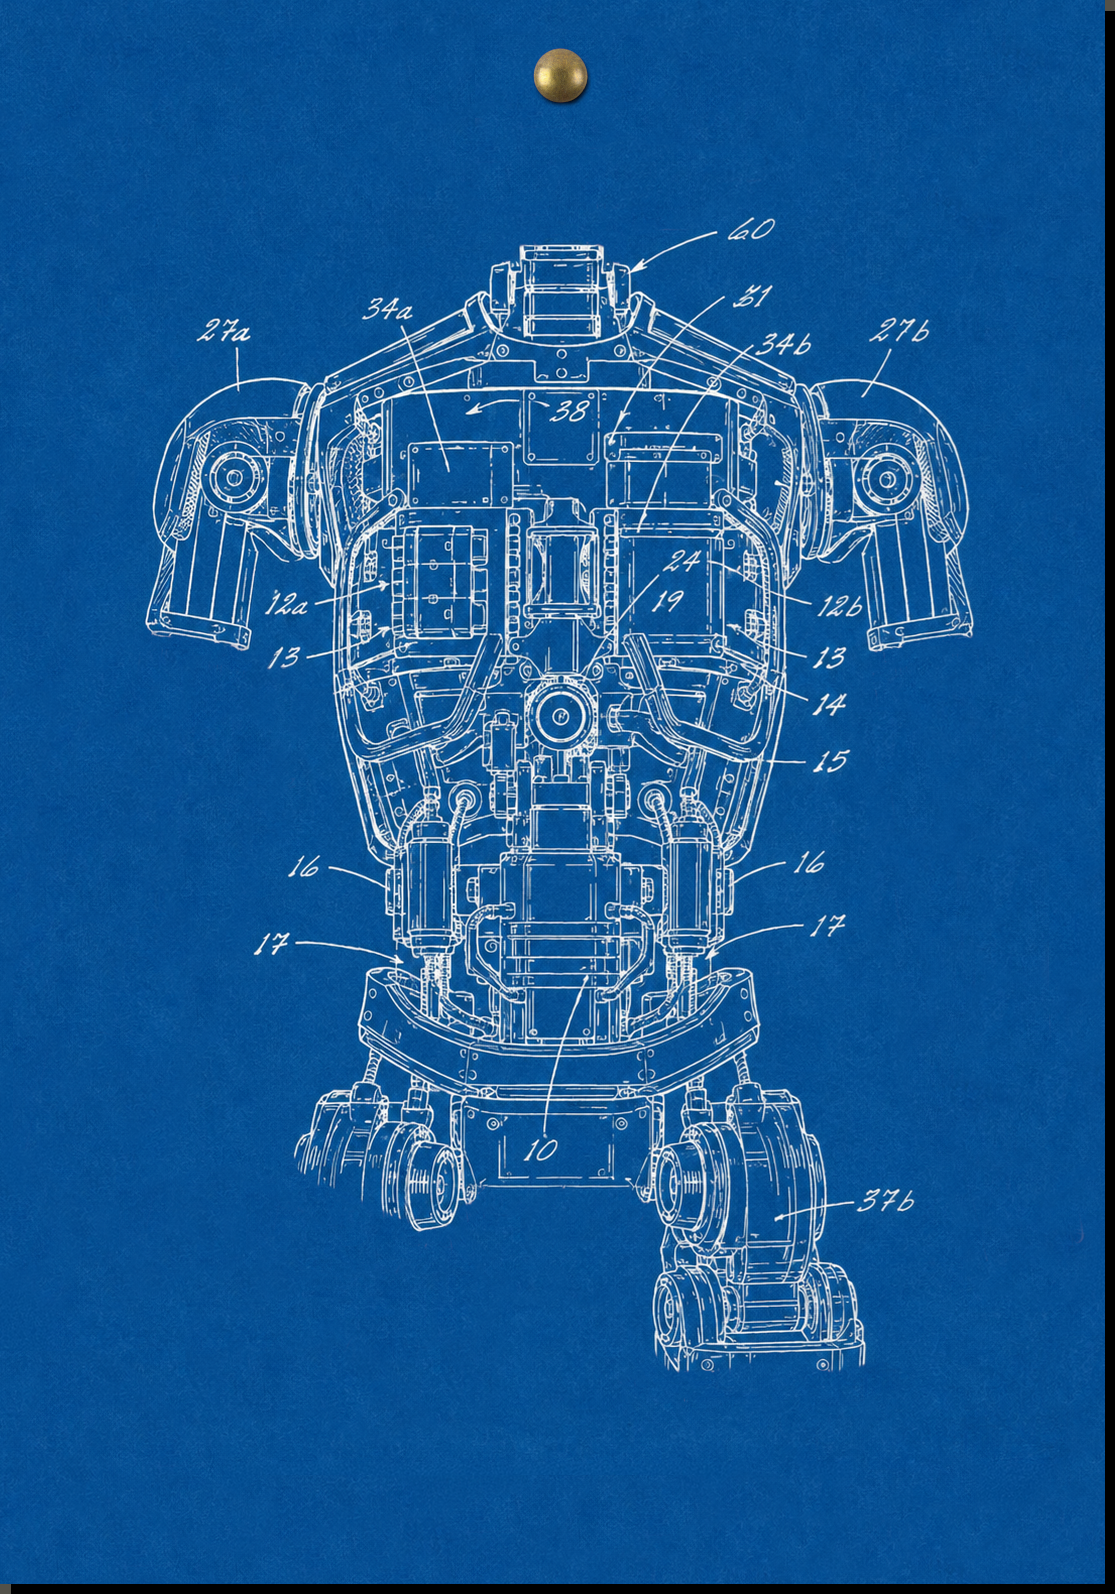
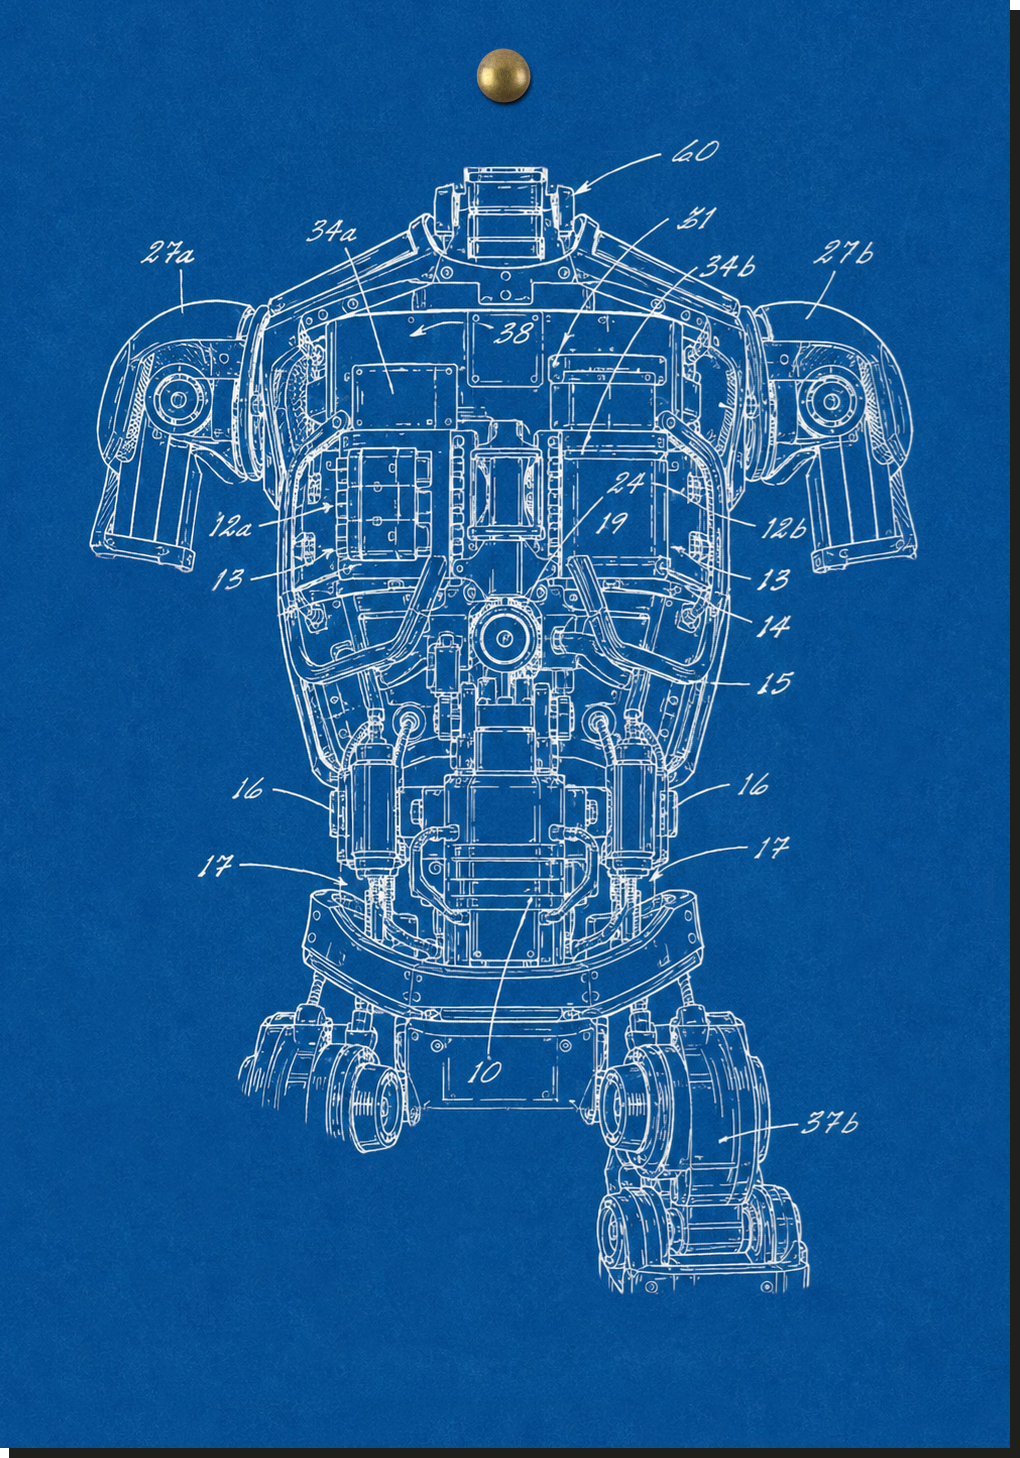
content updates

Changed region(s): [[0.0912, 0.0309, 0.9118, 0.8951], [0.0, 0.0, 1.0, 1.0]]

diff --git a/assets/css/core.css b/assets/css/core.css
@@ -1,17 +1,37 @@
-@media (min-width: 1000px) {
+/* Size-Depedent Settings */
+@media (min-width: 700px) {
     body {
-        background: radial-gradient(125% 125% at 33% 20%, rgba(255, 255, 255, 0) 40%, #00000055 100%), url('/assets/images/torso.png'), url('/assets/images/robot.png'), url('/assets/images/bg.png');
-        background-size: 100%, 20%, 20%, auto;
+        background: var(--bg-gradient), var(--torso-img), var(--robot-img), var(--bg-texture);
+        background-size: 100%, auto 50vh, auto 50vh, auto;
         background-repeat: no-repeat, no-repeat, no-repeat, repeat;
         background-position: top, 7.5% center, 92.5% center, top;
+        align-items: center;
+        padding: var(--content-padding);
+    }
+    #main {
+        padding: var(--content-padding);
+        max-height: 75vh;
+    }
+    h1 {
+        margin: calc(var(--h1-size)/-2) 0 0 0;
+    }
+    p, li {
+        text-align: justify;
     }
 }
-@media (max-width: 999px) {
+@media (max-width: 699px) {
     body {
-        background: radial-gradient(125% 125% at 33% 20%, rgba(255, 255, 255, 0) 40%, #00000055 100%), url('/assets/images/bg.png');
+        background: var(--bg-gradient), var(--bg-texture);
         background-size: 100%, auto;
         background-repeat: no-repeat, repeat;
         background-position: top, top;
+        padding: 0;
+    }
+    #main {
+        padding: 6vw;
+    }
+    h1 {
+        margin: 8px 0px 0px 0px;
     }
 }
 
@@ -23,9 +43,7 @@ html, body {
 body {
     display: flex;
     justify-content: center;
-    align-items: center;
     box-sizing: border-box;
-    padding: var(--content-padding);
 }
 
 /* Main Layout */
@@ -37,11 +55,7 @@ body {
     background-color: var(--content-bg-color);
     background-blend-mode: lighten;
     box-sizing: border-box;
-    padding: 25px var(--content-padding) var(--content-padding) var(--content-padding);
-}
-#main img {
-    display: block;
-    margin: 0 auto;
+    overflow-y: auto;
 }
 #footer {
     padding: var(--p-size);
@@ -58,15 +72,14 @@ h1, h2 {
     font-family: var(--accent-font);
     line-height: var(--headings-line-height);
     letter-spacing: var(--title-spacing);
-    word-spacing: var(--word-spacing);
 }
 h1 {
     color: var(--accent-color);
     font-weight: var(--title-weight);
     font-size: var(--h1-size);
-    margin: 0;
     text-align: center;
-    padding: var(--p-size) 0 calc(var(--p-size)*2) 0;
+    padding: 0 0 calc(var(--p-size)*2) 0;
+    word-spacing: var(--word-spacing);
 }
 h2 {
     color: var(--accent-color);
@@ -82,7 +95,6 @@ p, li {
     font-weight: var(--p-weight);
     margin-block-start: 0 !important;
     letter-spacing: var(--p-spacing);
-    text-align: justify;
 }
 p:not(:last-child) {
     margin-block-end: var(--p-size);

diff --git a/assets/css/variables.css b/assets/css/variables.css
@@ -1,17 +1,24 @@
 :root {
+    /* Files */
+    --bg-texture: url('/assets/images/bg.png');
+    --torso-img: url('/assets/images/torso.png');
+    --robot-img: url('/assets/images/robot.png');
+
     /* Colours */
     --bg-color: hsl(48, 5%, 35%);
-    --font-color: hsl(32, 100%, 96%);
-    --accent-color: hsl(32, 85%, 74%);
-    --content-bg-color: rgba(40, 40, 35, 0.8);
+    --bg-gradient: radial-gradient(125% 125% at 33% 20%, transparent 40%, #00000066 100%);
+    --content-bg-color: rgba(40, 40, 35, 0.97);
     --footer-bg-color: rgba(60, 60, 54, 0.8);
-    --content-shadow: 3px 3px 0px black;
 
-    /* Font Families */
+    --font-color: hsl(32, 100%, 96%);
+    --accent-color: hsl(34, 85%, 74%);
+
+    --content-shadow: 3px 3px 0px rgba(17, 17, 15, 0.8);
+
+    /* Fonts */
     --accent-font: 'Solway', 'Helvetica', sans-serif;
     --p-font: 'Solway', 'Helvetica', sans-serif;
 
-    /* Font Styles */
     --h1-size: 28px;
     --h2-size: 22px;
     --p-size: 18px;
@@ -27,6 +34,6 @@
     --word-spacing: 5px;
 
     /* Layout */
-    --content-width: 650px;
-    --content-padding: 4vw;
+    --content-width: 699px;
+    --content-padding: 69px;
 }

diff --git a/index.html b/index.html
@@ -34,18 +34,18 @@
             <div id="main">
                 <h1>CALLUM HACKETT</h1>
 
-                <p>I’m a researcher in human and artificial intelligence, interested in how we describe systems that think and feel. My background is in cognitive and computational linguistics + the philosophy of mind and language, and my work is broadly critical of attempts to reduce biological intelligence to data processing.</p>
+                <p>I’m a researcher in human and artificial intelligence, interested in how we describe systems that think and feel. My work is based in cognitive and computational linguistics + the philosophy of mind and language, and is broadly critical of attempts to reduce biological intelligence to data processing.</p>
 
-                <h2>Consulting</h2>
+                <h2>AI Consulting</h2>
 
-                <p>Since 2019, I’ve worked in private industry on AI alignment and reasoning systems. I also offer consulting services to UK startups that need help building bridges between tech stack and product strategy. <a href="https://www.youtube.com/watch?v=kBD9kygMBqU" target="_blank">Here’s</a> an example of a talk I gave on the promise of neurosymbolic architectures.</p>
+                <p>Since 2019, I’ve worked in private industry on AI alignment and reasoning systems. I also offer consulting services to UK startups that need help building bridges between tech stack and product strategy. <a href="https://www.youtube.com/watch?v=kBD9kygMBqU" target="_blank">Here’s</a> an example of a talk I gave on the promise of neurosymbolic models for enterprise settings.</p>
 
                 <h2>Writing</h2>
 
-                <p>I’m currently drafting a book on pseudoscience in the AI industry and, in the mean time, I write <a href="https://callumhackett.substack.com/about" target="_blank"><em>Culture and Anarchy</em></a>, a newsletter about human progress viewed through the lenses of naturalism, pragmatism and Daoism. I’ve also published academic work <a href="https://bioling.psychopen.eu/index.php/bioling/article/view/9085" target="_blank">on the biological origins of language</a>.</p>
+                <p>I’m currently drafting a book on pseudoscience in the AI industry and I write <a href="https://callumhackett.substack.com/about" target="_blank"><em>Culture and Anarchy</em></a>, a newsletter about human progress viewed through the lenses of naturalism, pragmatism and Daoism. I’ve also published academic work <a href="https://bioling.psychopen.eu/index.php/bioling/article/view/9085" target="_blank">on the biological origins of language</a>.</p>
             </div>
             <div id="footer">
-                <p><a href="https://callumhackett.substack.com/about" target="_blank" style="color: rgb(239, 106, 40);">Substack</a> | Contact via <a href="https://www.linkedin.com/in/callumhackett/" target="_blank" style="color: rgb(58, 157, 255);">LinkedIn</a></p>
+                <p><a href="https://callumhackett.substack.com/about" target="_blank" style="color: rgb(241, 122, 63);">Substack</a> | Contact via <a href="https://www.linkedin.com/in/callumhackett/" target="_blank" style="color: rgb(101, 160, 255);">LinkedIn</a></p>
             </div>
         </div>
     </body>